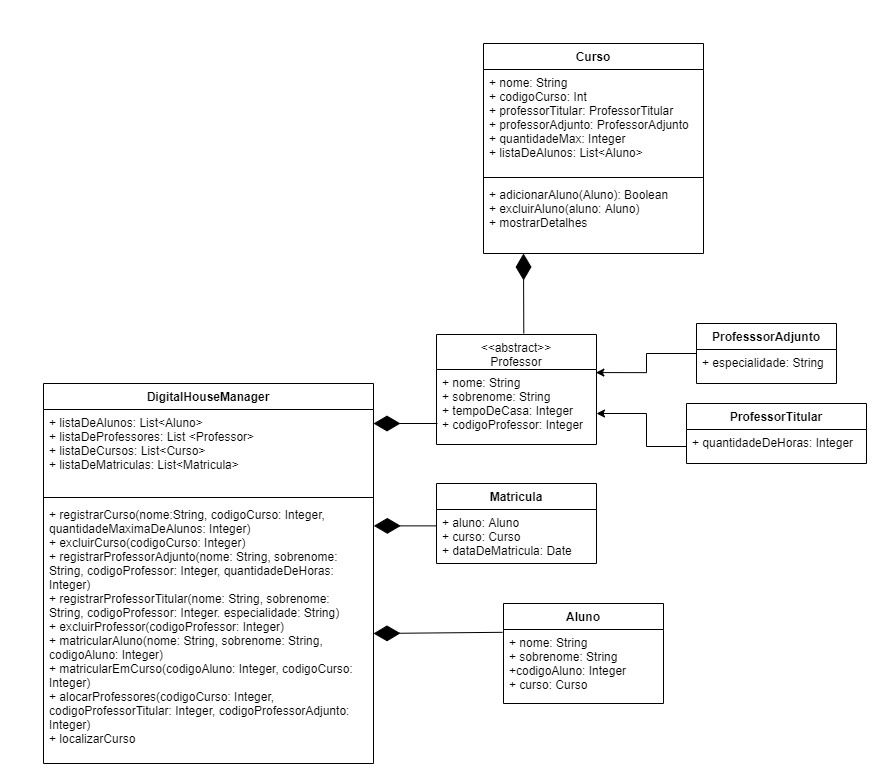
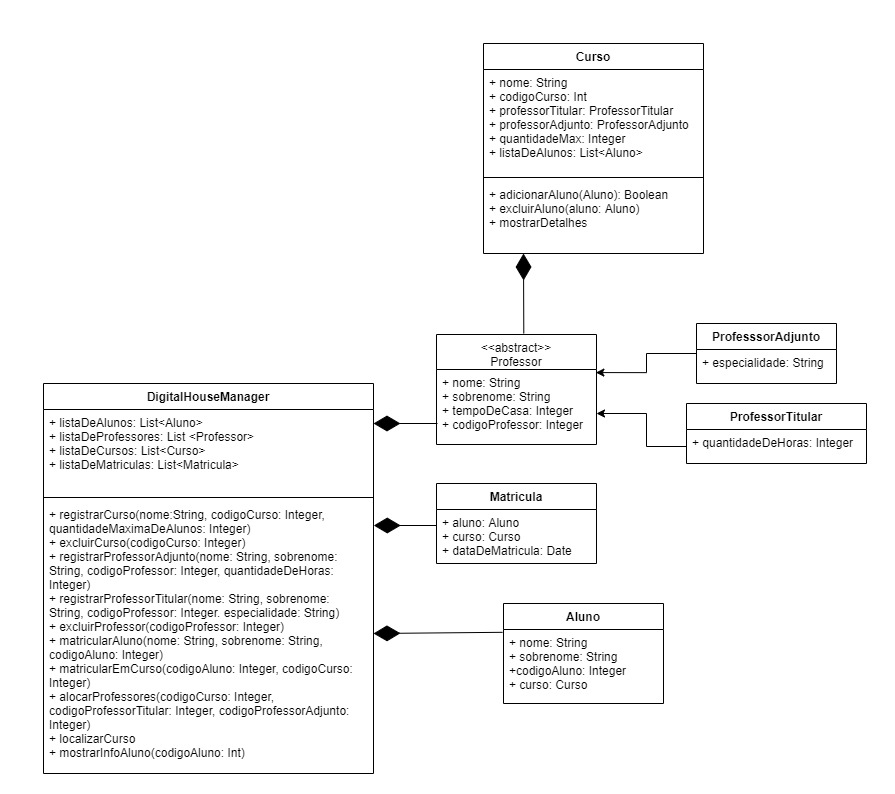
Parte K concluida

diff --git a/src/DigitalHouseManager.kt b/src/DigitalHouseManager.kt
@@ -124,5 +124,19 @@ class DigitalHouseManager {
             println("Curso não localizado")
         }
     }
+
+    fun mostrarInfoAluno(codigoAluno: Int){
+        val alunoEscolhido: Aluno? = listaDeAlunos.find { it.codigoAluno == codigoAluno }
+        if (alunoEscolhido != null){
+            println("Aluno(a): ${alunoEscolhido.nome} ${alunoEscolhido.sobrenome}" )
+                if (alunoEscolhido.curso != null){
+                    println("Curso: ${alunoEscolhido.curso?.nome}")
+                } else {
+                    println("Não está matriculado em nenhum curso")
+                }
+        } else {
+            println("Aluno(a) não encontrado.")
+        }
+    }
 }
 

diff --git a/src/Principal.kt b/src/Principal.kt
@@ -23,8 +23,5 @@ fun main() {
     sistema.matricularEmCurso(1235,20002)
     sistema.matricularEmCurso(1238,20002)
 
-//    sistema.alocarProfessores(20001,3222, 1234)
-//    sistema.alocarProfessores(20001,3222, 1568)
-
-    sistema.alocarProfessores(20001, 3222, 1568)
+    sistema.mostrarInfoAluno(1237)
 }
